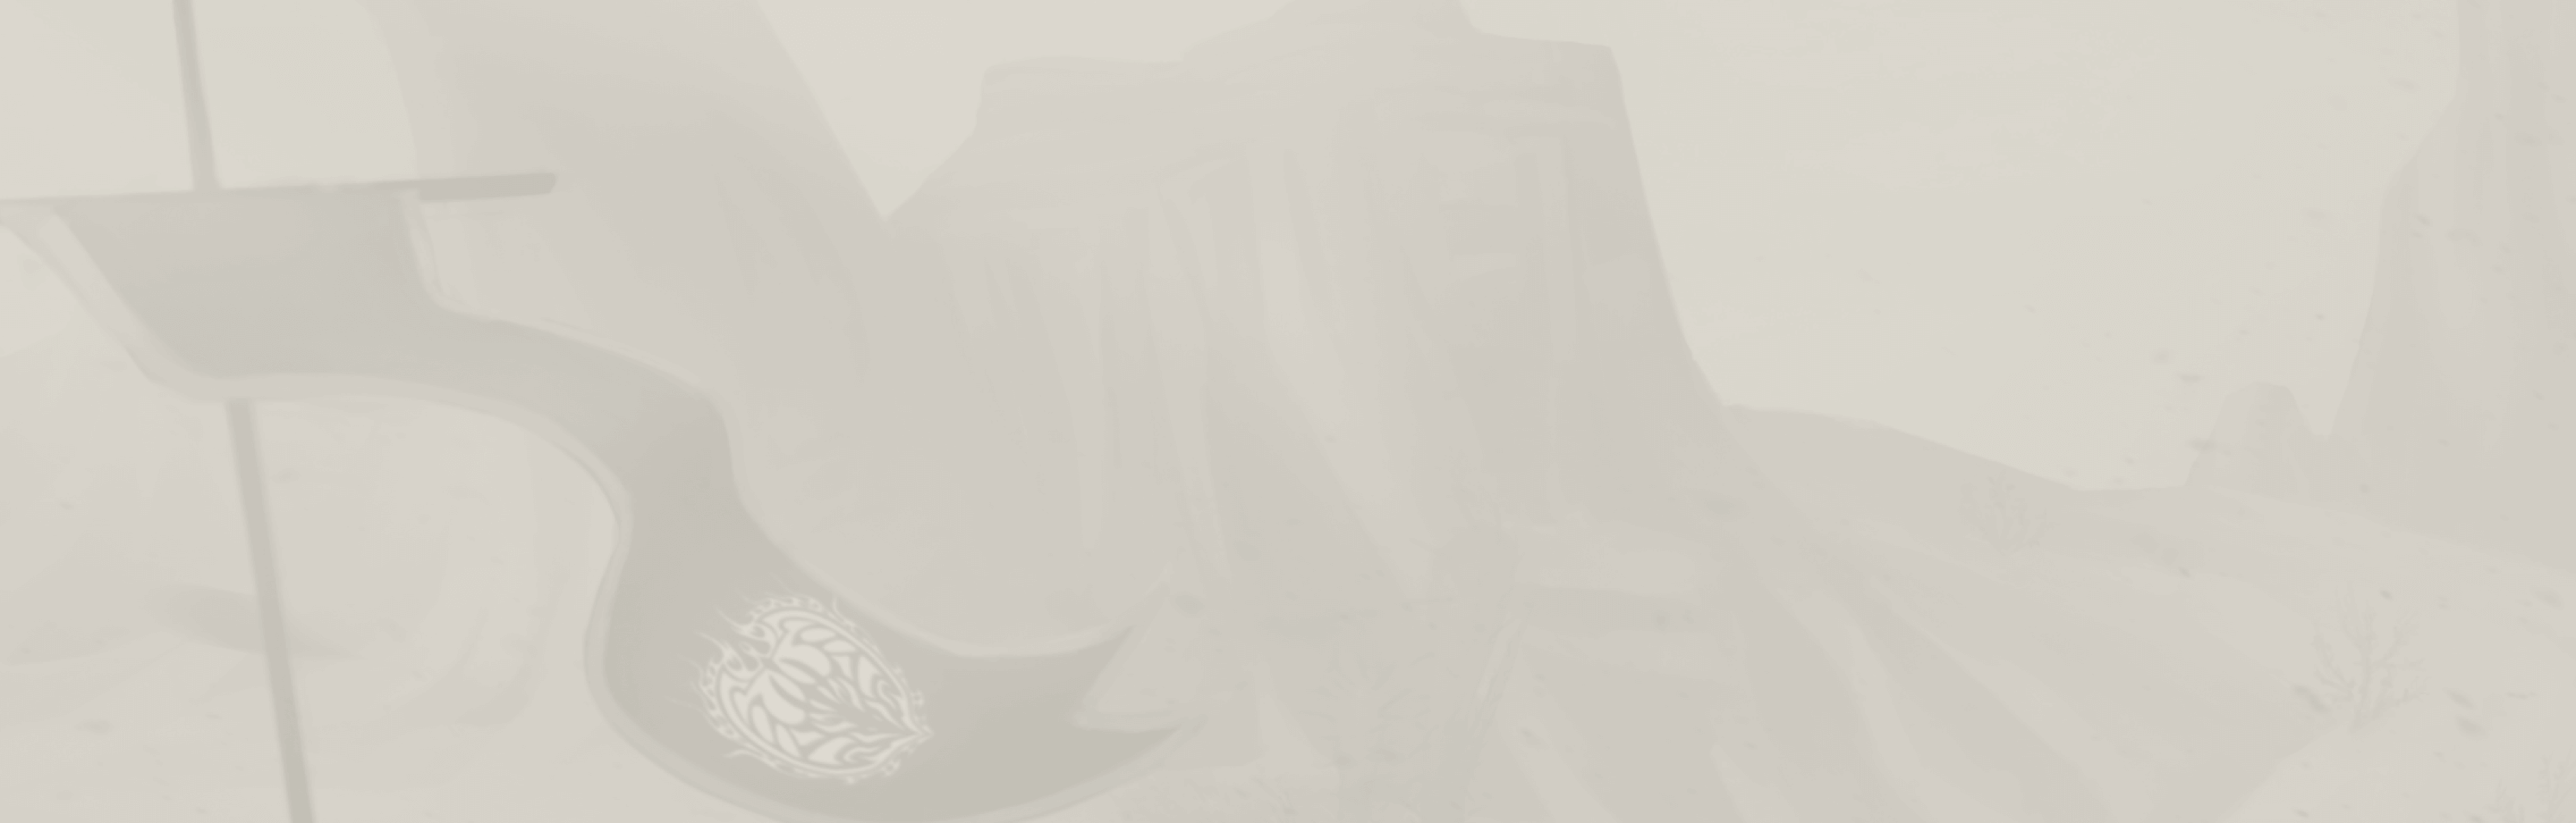
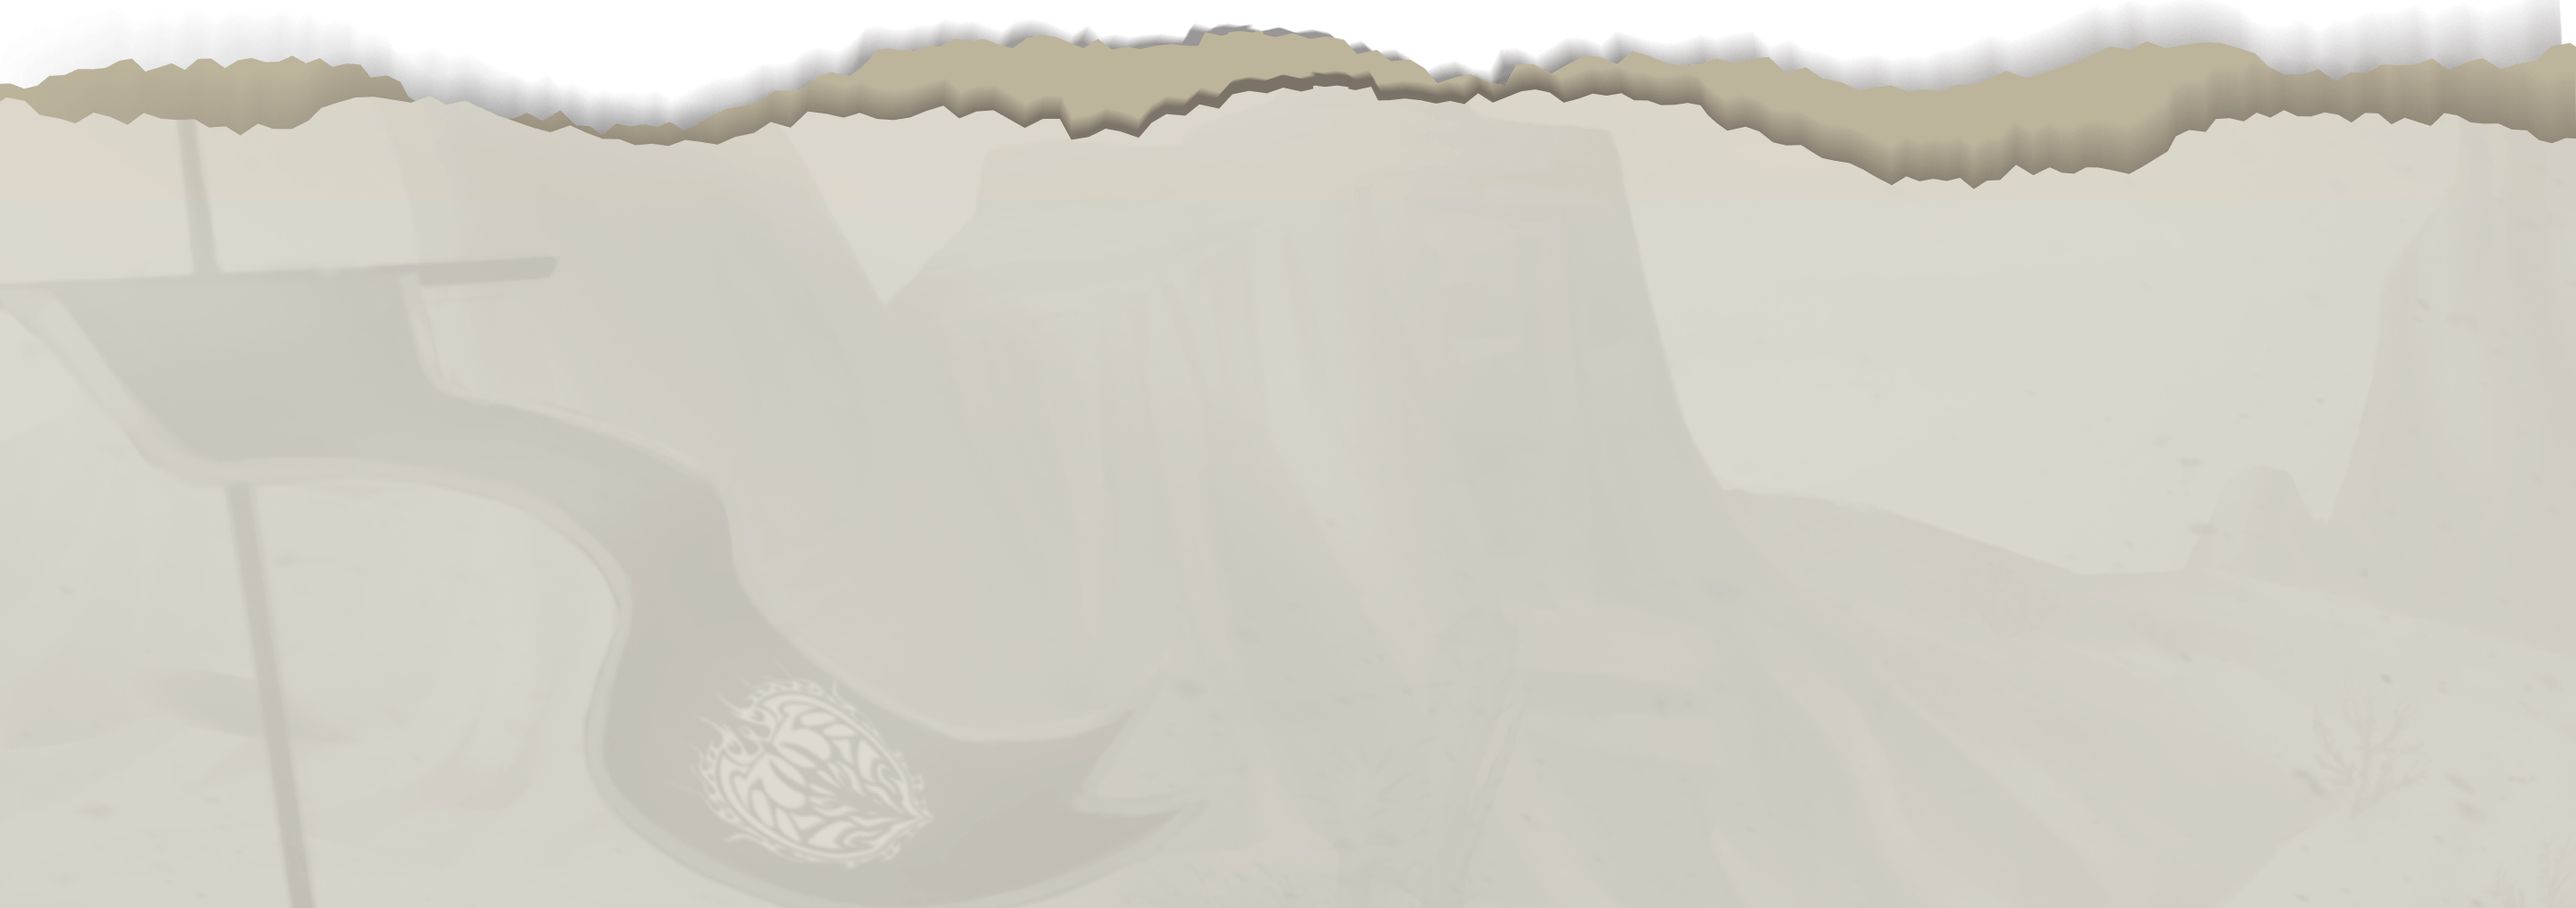
revamp home footer

Changed region(s): [[0.0, 0.0, 1.0, 0.2128]]

diff --git a/components/pages/home/home-footer.js b/components/pages/home/home-footer.js
@@ -1,6 +1,6 @@
 import AvarikButton from "components/avarik-saga/avarik-button"
+import AvarikTitle from "components/avarik-saga/avarik-title"
 import { useScrollAnim } from "components/hooks/hooks"
-
 
 const HomeFooter = () => {
     const [trigger, anim] = useScrollAnim()
@@ -8,24 +8,27 @@ const HomeFooter = () => {
         <section className="sc-home-footer" ref={trigger}>
             <div className="py-main">
                 <div className="container d-flex align-items-center flex-column mx-auto mw-md">
-                    <h1 className={`title ${anim(1, "revealInUp")} mb-4`}>
-                        Step Forth and Craft Your Own Adventure
-                    </h1>
+                    <AvarikTitle title="Join the Community" titleClassName={`title ${anim(1, "revealInUp")} mb-4`} />
                     <p className={`description ${anim(2, "revealInUp")} mb-5`}>
-                        View the official <strong>Avarik Saga Universe </strong> on <strong> OpenSea </strong>
+                        Become a part of our community for exclusives updates!
                     </p>
-                    <div className="row w-100 justify-content-center">
+                    <div className="row w-100 justify-content-between">
                         <AvarikButton
                             link="https://opensea.io/collection/avariksagauniverse"
                             target="_blank"
-                            text="Main collection"
+                            text="Get Started"
                             className={`ml-md-0 ${anim(3)}`}
                         />
-                        {/* <AvarikButton
-                            link="https://game-avariksaga-stag.agatedev.net/"
+                        <AvarikButton
+                            link="/factions"
                             target="_blank"
-                            text="Try Game Demo"
-                        /> */}
+                            text="Factions"
+                        />
+                        <AvarikButton
+                            link="/class"
+                            target="_blank"
+                            text="Characters"
+                        />
                     </div>
                 </div>
             </div>

diff --git a/assets/scss/pages/_home.scss b/assets/scss/pages/_home.scss
@@ -589,39 +589,22 @@ body.bd-home {
   display: flex;
   flex-direction: column;
   justify-content: center;
-  @include media-breakpoint-down(sm) {
-    padding-top: 5rem;
-  }
+  margin-top: -5rem;
+  z-index: 2;
+  padding-top: 5rem;
   .title {
-    color: $white;
+    color: $dark;
     font-size: 2.5rem;
     text-align: center;
   }
   .description {
-    color: $white;
+    color: $dark;
     text-align: center;
   }
-  &:before {
-    content: "";
-    @include gradient-y-to-bottom($black, rgba($black, 0), 5%, 100%);
-    position: absolute;
-    width: 100%;
-    height: 200px;
-    z-index: 1;
-    top: 0;
-    left: 0;
-  }
-  &:after {
-    content: "";
-    @include gradient-y-to-top($black, rgba($black, 0), 5%, 100%);
-    position: absolute;
-    width: 100%;
-    height: 200px;
-    z-index: 1;
-    bottom: 0;
-    left: 0;
-  }
   .avarik-button {
+    .side-left {
+      left: -29px;
+    }
     @include media-breakpoint-down(sm) {
       width: 100%;
       margin-bottom: 1rem;
